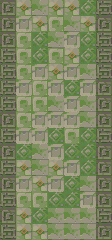
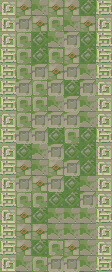
Fix pixel aligned

diff --git a/src/Component/Map/BaseRoom.cpp b/src/Component/Map/BaseRoom.cpp
@@ -165,23 +165,24 @@ WallConfig BaseRoom::BuildWallConfigFromDoorConfig(
 
 glm::vec2 BaseRoom::ResolveRoomSize(RoomType roomType) {
     switch (roomType) {
+    
     case RoomType::ROOM_13_13:
-        return {13.0F * MAP_PIXEL_PER_BLOCK, 13.0F * MAP_PIXEL_PER_BLOCK};
+        return {13.0F * MAP_PIXEL_PER_BLOCK, 14.5F * MAP_PIXEL_PER_BLOCK};
 
     case RoomType::ROOM_15_15:
-        return {15.0F * MAP_PIXEL_PER_BLOCK, 15.0F * MAP_PIXEL_PER_BLOCK};
+        return {15.0F * MAP_PIXEL_PER_BLOCK, 16.5F * MAP_PIXEL_PER_BLOCK};
 
     case RoomType::ROOM_17_17:
-        return {17.0F * MAP_PIXEL_PER_BLOCK, 17.0F * MAP_PIXEL_PER_BLOCK};
+        return {17.0F * MAP_PIXEL_PER_BLOCK, 18.5F * MAP_PIXEL_PER_BLOCK};
 
     case RoomType::ROOM_17_23:
-        return {17.0F * MAP_PIXEL_PER_BLOCK, 23.0F * MAP_PIXEL_PER_BLOCK};
+        return {17.0F * MAP_PIXEL_PER_BLOCK, 24.5F * MAP_PIXEL_PER_BLOCK};
 
     case RoomType::ROOM_23_17:
-        return {23.0F * MAP_PIXEL_PER_BLOCK, 17.0F * MAP_PIXEL_PER_BLOCK};
+        return {23.0F * MAP_PIXEL_PER_BLOCK, 18.5F * MAP_PIXEL_PER_BLOCK};
     }
 
-    return {13.0F * MAP_PIXEL_PER_BLOCK, 13.0F * MAP_PIXEL_PER_BLOCK};
+    return {13.0F * MAP_PIXEL_PER_BLOCK, 14.5F * MAP_PIXEL_PER_BLOCK};
 }
 
 std::string BaseRoom::ResolveRoomSprite(RoomType roomType) {

diff --git a/src/Scene/MapTest.cpp b/src/Scene/MapTest.cpp
@@ -76,9 +76,18 @@ MapTest::MapTest() : MapSystem() {
         this->m_MainPlayer,
         std::make_shared<EaseOutQubicCurve>()
     );
-    this->m_AttachCamera->SetScale({1.5F, 1.5F});
+    this->m_AttachCamera->SetScale({2.5F, 2.5F});
 
-    this->AddChild(this->m_MainPlayer);
+    if (this->m_MainPlayer != nullptr) {
+        this->AddChild(this->m_MainPlayer);
+    }
+
+    // TODO: 我不知道可不可以山，反正不山是編譯不了
+    // for (const auto &piece : this->m_Pieces) {
+    //     if (piece != nullptr) {
+    //         this->AddChild(piece);
+    //     }
+    // }
 }
 
 MapTest::~MapTest() = default;

diff --git a/src/Generator/MapGenerator.cpp b/src/Generator/MapGenerator.cpp
@@ -115,11 +115,11 @@ std::shared_ptr<Gangway> BuildGangway(
             0.0F,
             std::abs(delta.y) -
                 firstRoom->GetRoomSize().y / 2.0F -
-                secondRoom->GetRoomSize().y / 2.0F
+                secondRoom->GetRoomSize().y / 2.0F  
         );
         config.length = gap + MapColliderConfig::kDefaultWallThickness;
     }
-
+    
     config.wallThickness = MapColliderConfig::kDefaultWallThickness;
     const glm::vec2 center =
         (firstRoom->GetAbsoluteCooridinate() + secondRoom->GetAbsoluteCooridinate()) / 2.0F;

diff --git a/include/Component/Map/GangwayLayoutConfig.hpp b/include/Component/Map/GangwayLayoutConfig.hpp
@@ -5,8 +5,8 @@
 
 namespace GangwayLayoutConfig {
 
-inline const glm::vec2 kHorizontalPositionOffset = {5.0F, -5.0F};
-inline const glm::vec2 kVerticalPositionOffset = {0.0F, 10.0F};
+inline const glm::vec2 kHorizontalPositionOffset = {8.0F, -8.0F};
+inline const glm::vec2 kVerticalPositionOffset = {0.0F, 4.0F};
 
 } // namespace GangwayLayoutConfig
 
